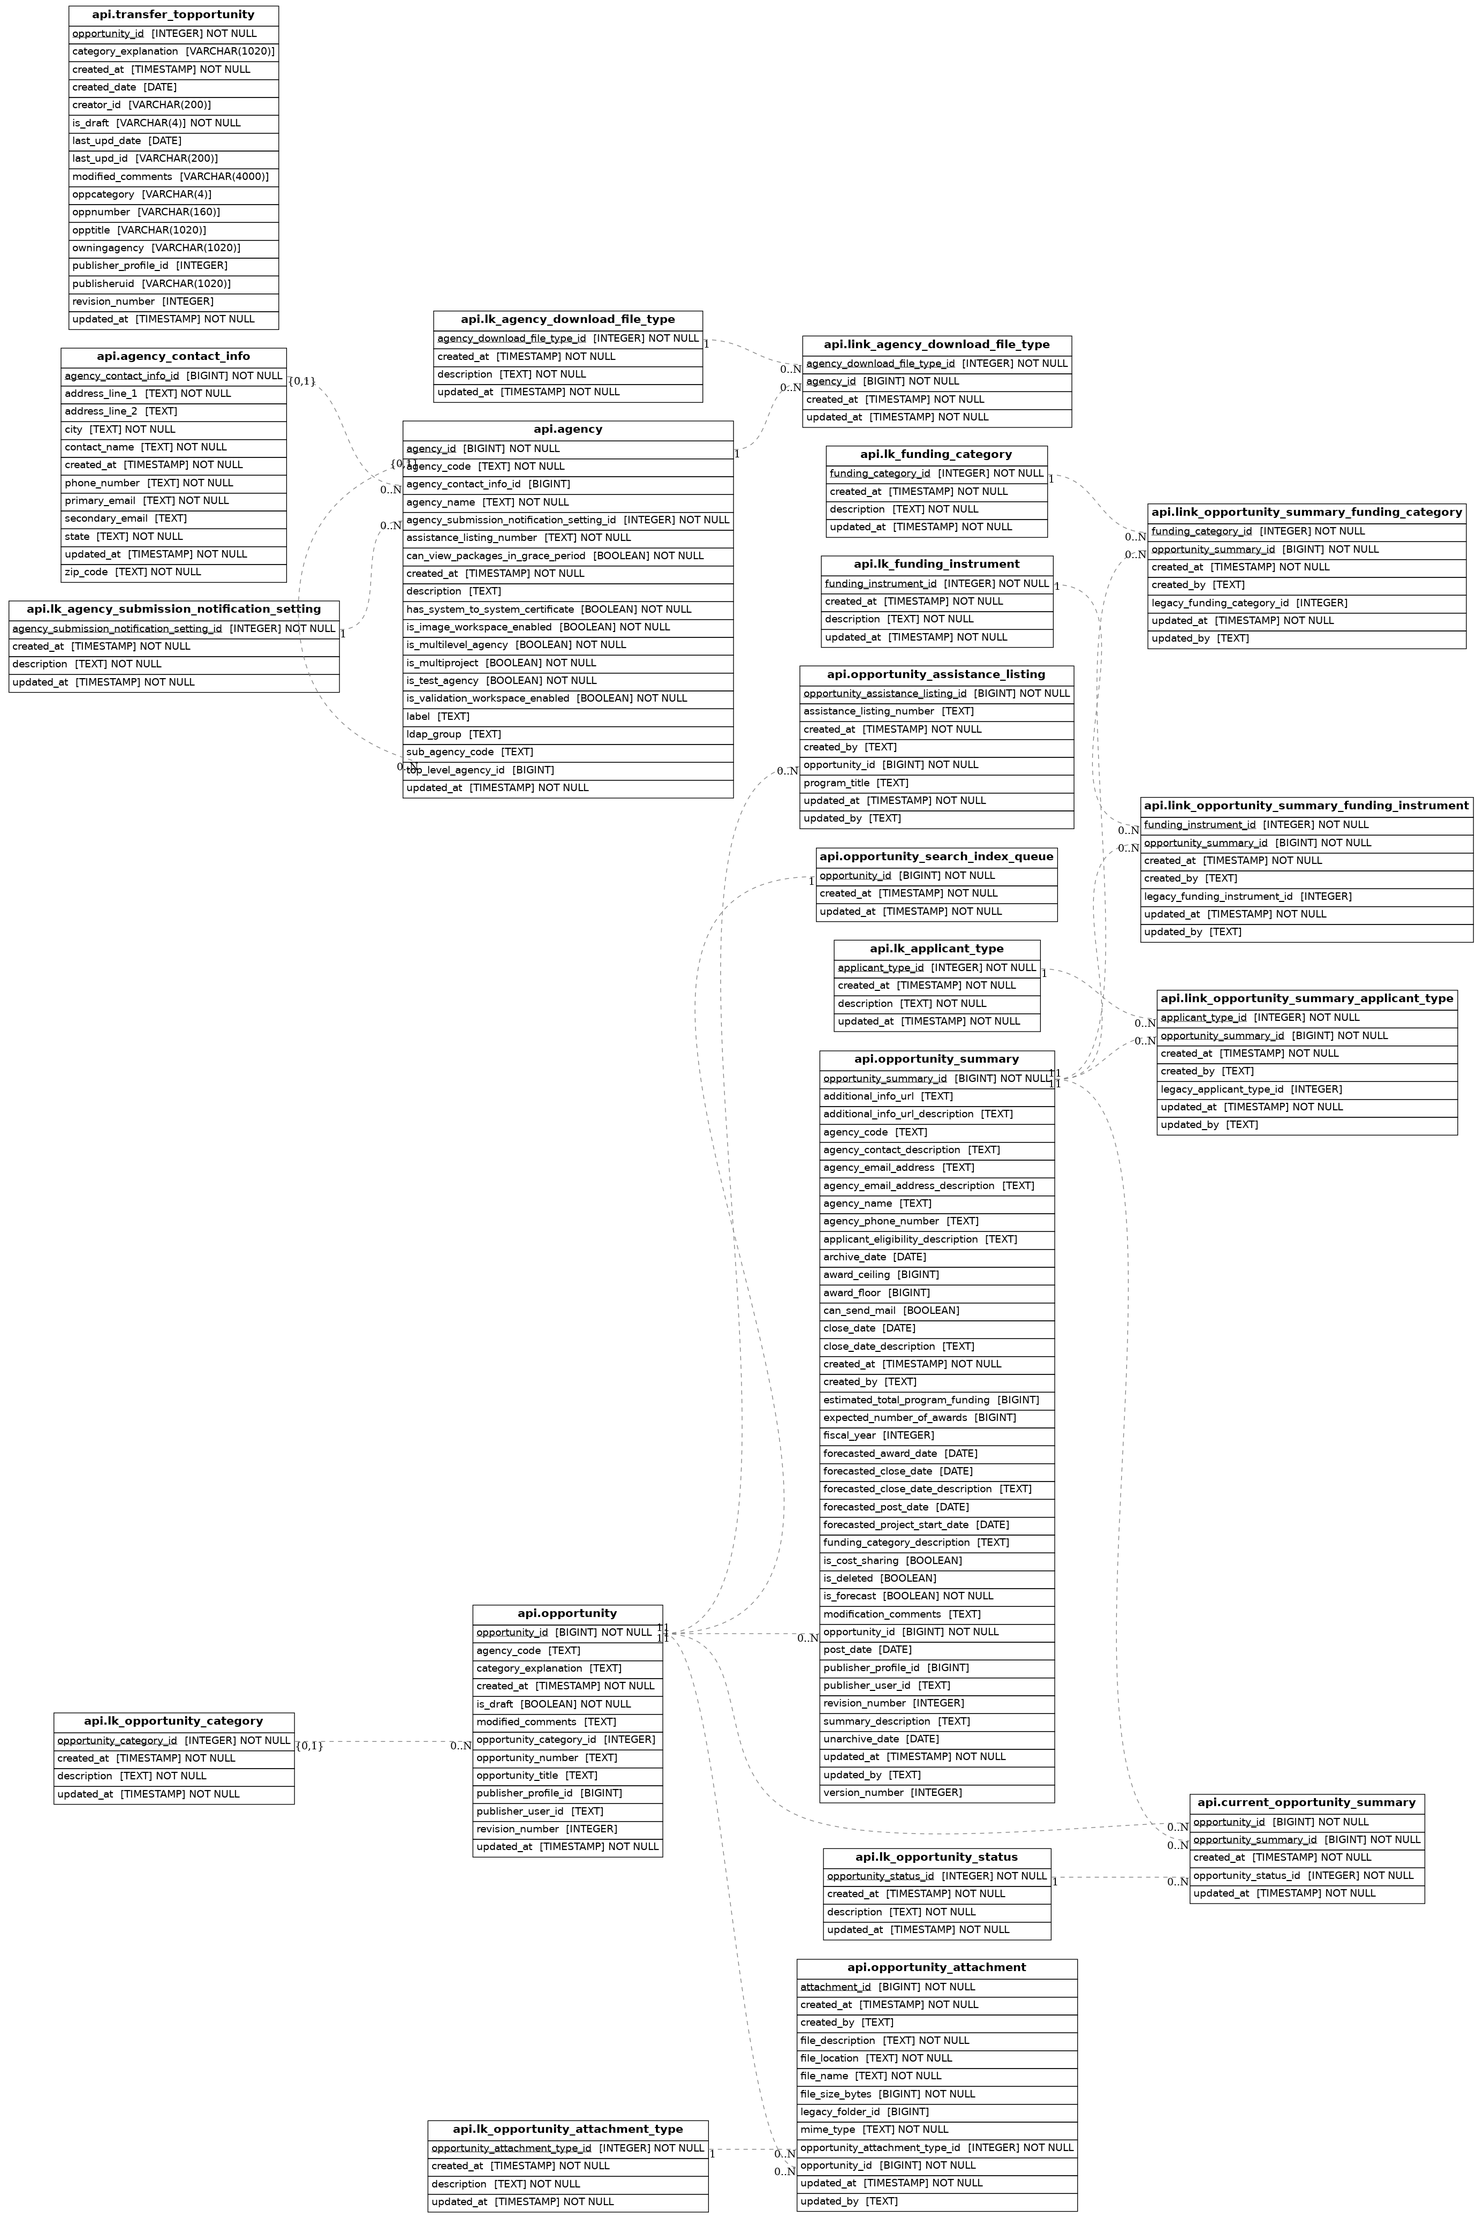
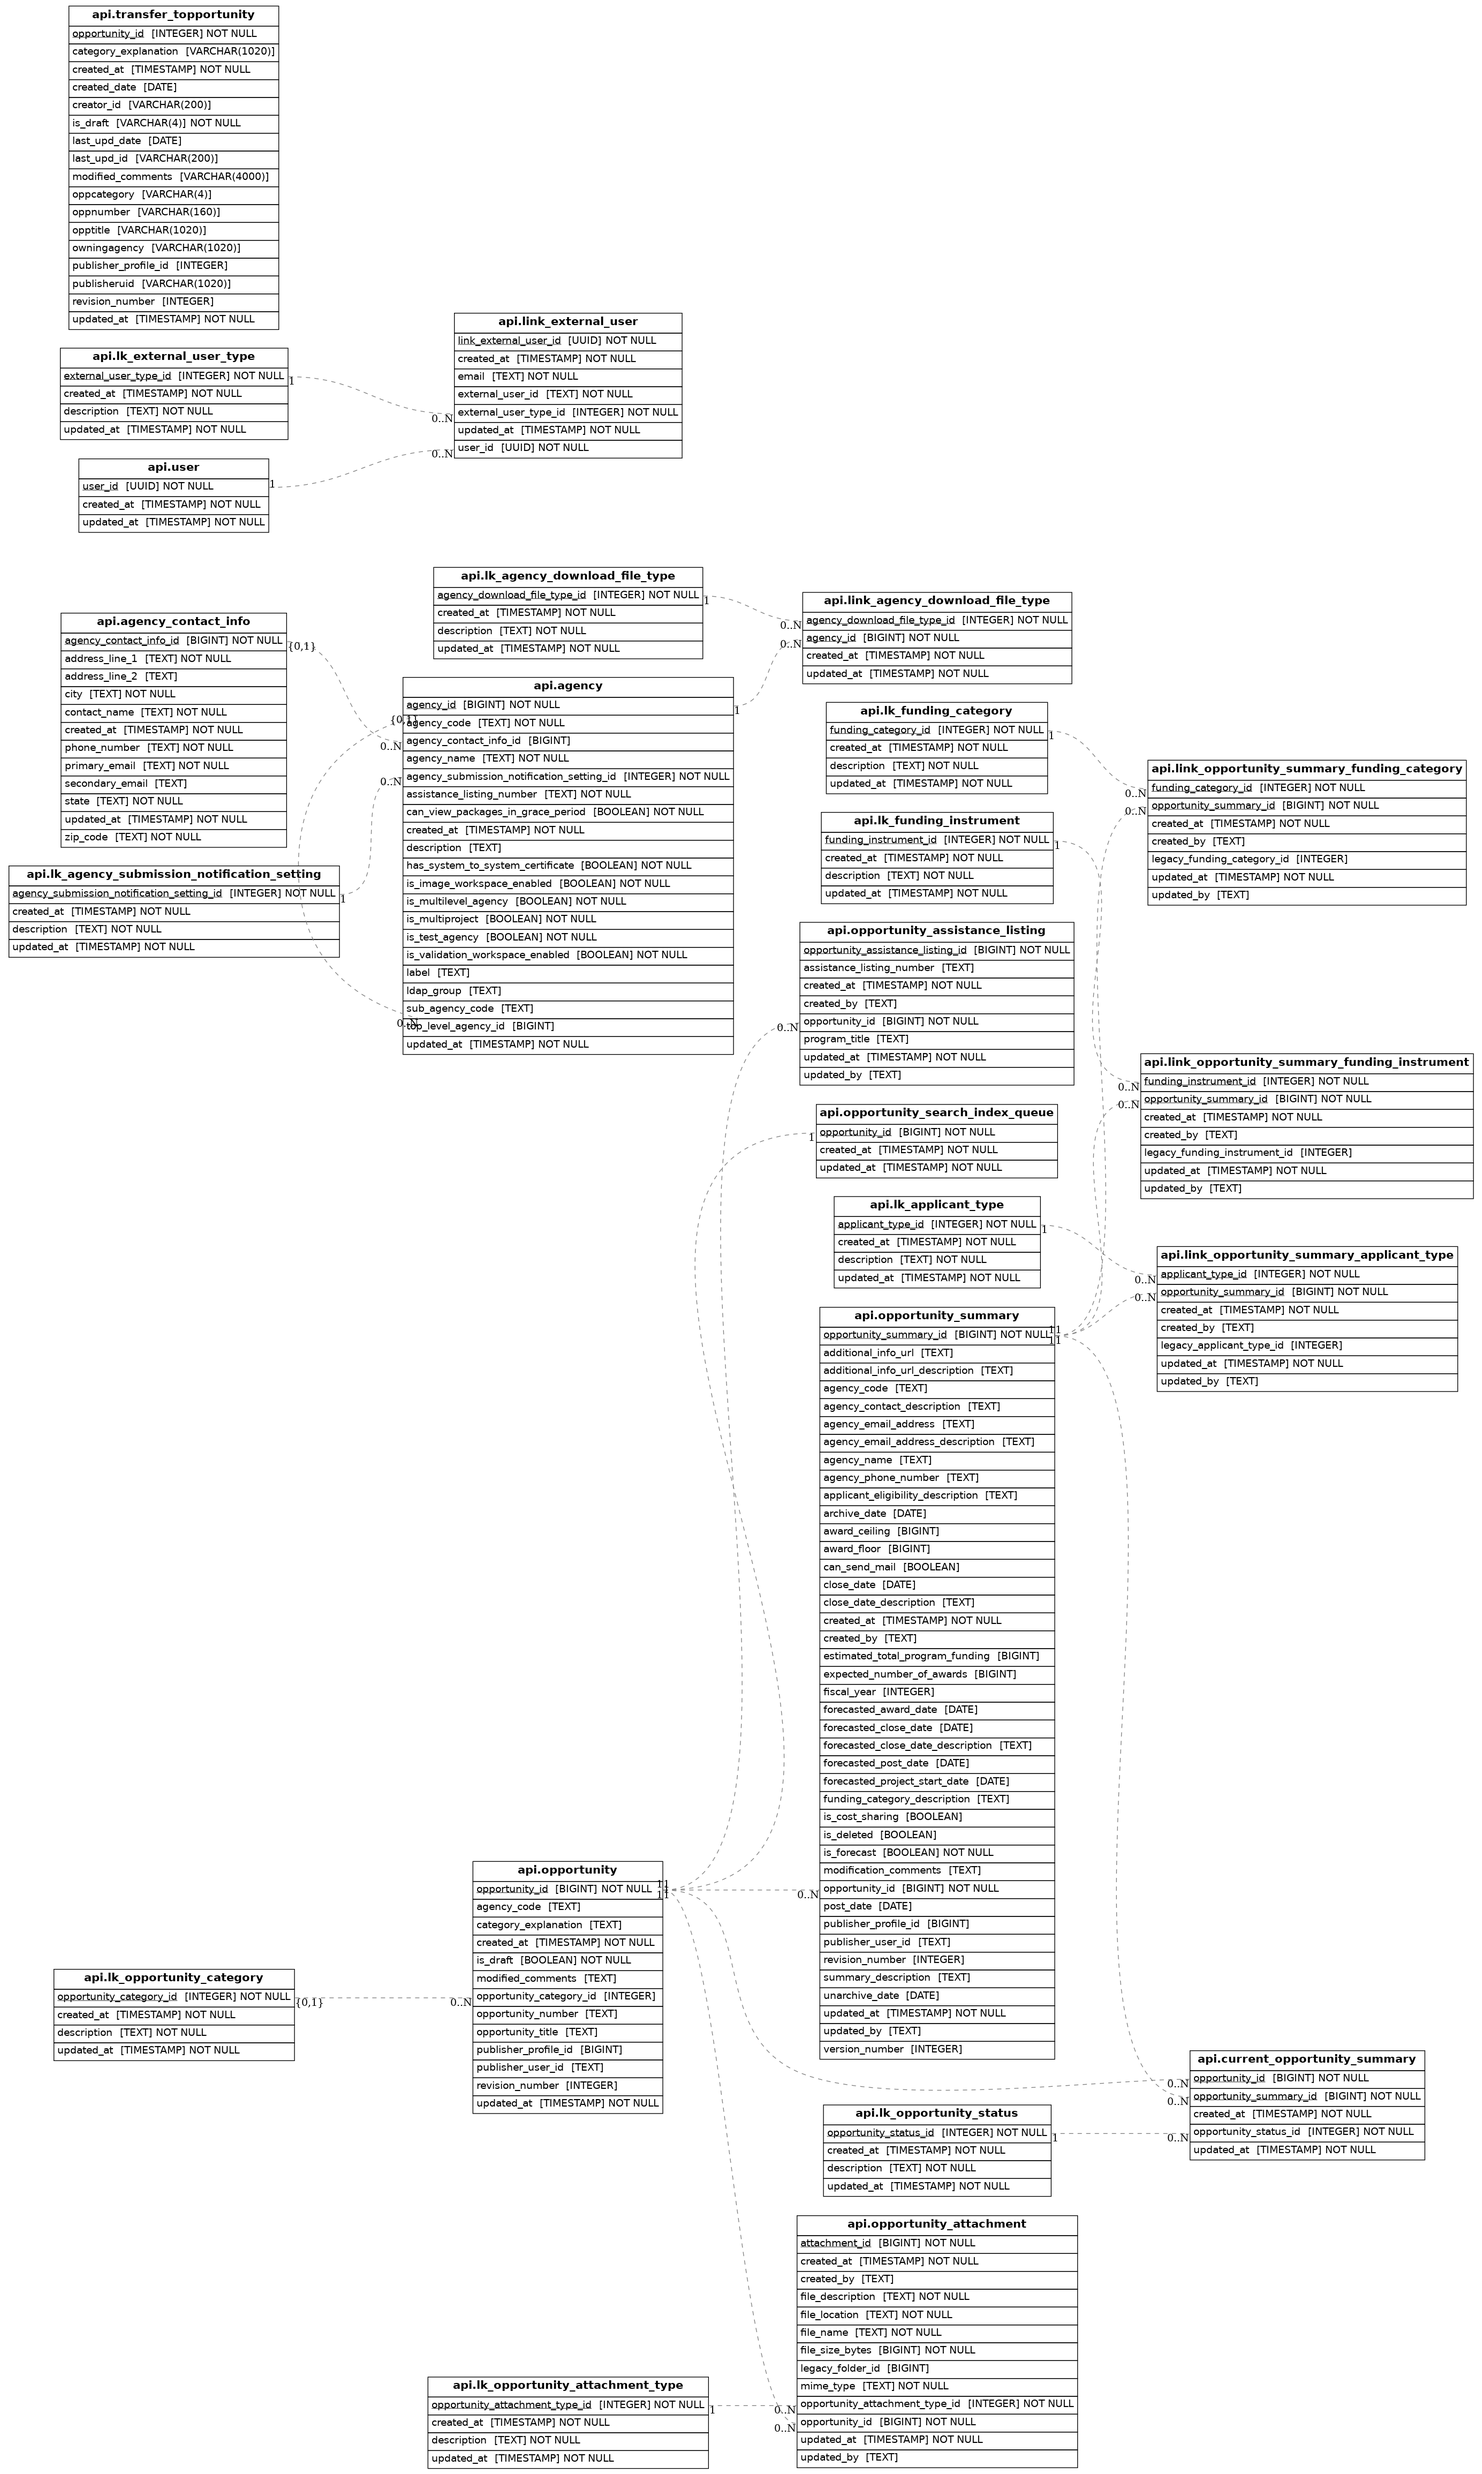
[ISSUE 2716] Create user tables for basic login.gov (#2760)
## Summary
Fixes #{[2716](https://github.com/HHS/simpler-grants-gov/issues/2716)}

### Time to review: __10 mins__

## Changes proposed
3 user tables
migration script
updated factories to create new users

## Context for reviewers
Users tables will be used for Oauth2 

## Additional information
> Screenshots, GIF demos, code examples or output to help show the
changes working as expected.

---------

diff --git a/api/src/db/migrations/versions/2024_11_12_add_basic_user_tables.py b/api/src/db/migrations/versions/2024_11_12_add_basic_user_tables.py
@@ -1,0 +1,130 @@
+"""add_basic_user_tables
+
+Revision ID: 65e962033cc6
+Revises: 3640e31e6a85
+Create Date: 2024-11-12 17:14:12.947794
+
+"""
+
+import sqlalchemy as sa
+from alembic import op
+
+# revision identifiers, used by Alembic.
+revision = "65e962033cc6"
+down_revision = "3640e31e6a85"
+branch_labels = None
+depends_on = None
+
+
+def upgrade():
+    # ### commands auto generated by Alembic - please adjust! ###
+    op.create_table(
+        "lk_external_user_type",
+        sa.Column("external_user_type_id", sa.Integer(), nullable=False),
+        sa.Column("description", sa.Text(), nullable=False),
+        sa.Column(
+            "created_at",
+            sa.TIMESTAMP(timezone=True),
+            server_default=sa.text("now()"),
+            nullable=False,
+        ),
+        sa.Column(
+            "updated_at",
+            sa.TIMESTAMP(timezone=True),
+            server_default=sa.text("now()"),
+            nullable=False,
+        ),
+        sa.PrimaryKeyConstraint("external_user_type_id", name=op.f("lk_external_user_type_pkey")),
+        schema="api",
+    )
+    op.create_table(
+        "user",
+        sa.Column("user_id", sa.UUID(), nullable=False),
+        sa.Column(
+            "created_at",
+            sa.TIMESTAMP(timezone=True),
+            server_default=sa.text("now()"),
+            nullable=False,
+        ),
+        sa.Column(
+            "updated_at",
+            sa.TIMESTAMP(timezone=True),
+            server_default=sa.text("now()"),
+            nullable=False,
+        ),
+        sa.PrimaryKeyConstraint("user_id", name=op.f("user_pkey")),
+        schema="api",
+    )
+    op.create_table(
+        "link_external_user",
+        sa.Column("link_external_user_id", sa.UUID(), nullable=False),
+        sa.Column("external_user_id", sa.Text(), nullable=False),
+        sa.Column("user_id", sa.UUID(), nullable=False),
+        sa.Column("external_user_type_id", sa.Integer(), nullable=False),
+        sa.Column("email", sa.Text(), nullable=False),
+        sa.Column(
+            "created_at",
+            sa.TIMESTAMP(timezone=True),
+            server_default=sa.text("now()"),
+            nullable=False,
+        ),
+        sa.Column(
+            "updated_at",
+            sa.TIMESTAMP(timezone=True),
+            server_default=sa.text("now()"),
+            nullable=False,
+        ),
+        sa.ForeignKeyConstraint(
+            ["external_user_type_id"],
+            ["api.lk_external_user_type.external_user_type_id"],
+            name=op.f("link_external_user_external_user_type_id_lk_external_user_type_fkey"),
+        ),
+        sa.ForeignKeyConstraint(
+            ["user_id"], ["api.user.user_id"], name=op.f("link_external_user_user_id_user_fkey")
+        ),
+        sa.PrimaryKeyConstraint("link_external_user_id", name=op.f("link_external_user_pkey")),
+        schema="api",
+    )
+    op.create_index(
+        op.f("link_external_user_external_user_id_idx"),
+        "link_external_user",
+        ["external_user_id"],
+        unique=True,
+        schema="api",
+    )
+    op.create_index(
+        op.f("link_external_user_external_user_type_id_idx"),
+        "link_external_user",
+        ["external_user_type_id"],
+        unique=False,
+        schema="api",
+    )
+    op.create_index(
+        op.f("link_external_user_user_id_idx"),
+        "link_external_user",
+        ["user_id"],
+        unique=False,
+        schema="api",
+    )
+    # ### end Alembic commands ###
+
+
+def downgrade():
+    # ### commands auto generated by Alembic - please adjust! ###
+    op.drop_index(
+        op.f("link_external_user_user_id_idx"), table_name="link_external_user", schema="api"
+    )
+    op.drop_index(
+        op.f("link_external_user_external_user_type_id_idx"),
+        table_name="link_external_user",
+        schema="api",
+    )
+    op.drop_index(
+        op.f("link_external_user_external_user_id_idx"),
+        table_name="link_external_user",
+        schema="api",
+    )
+    op.drop_table("link_external_user", schema="api")
+    op.drop_table("user", schema="api")
+    op.drop_table("lk_external_user_type", schema="api")
+    # ### end Alembic commands ###

diff --git a/api/tests/src/db/models/factories.py b/api/tests/src/db/models/factories.py
@@ -24,11 +24,13 @@ import src.db.models.foreign as foreign
 import src.db.models.opportunity_models as opportunity_models
 import src.db.models.staging as staging
 import src.db.models.transfer.topportunity_models as transfer_topportunity_models
+import src.db.models.user_models as user_models
 import src.util.datetime_util as datetime_util
 from src.constants.lookup_constants import (
     AgencyDownloadFileType,
     AgencySubmissionNotificationSetting,
     ApplicantType,
+    ExternalUserType,
     FundingCategory,
     FundingInstrument,
     OpportunityAttachmentType,
@@ -1833,3 +1835,25 @@ class OpportunitySearchIndexQueueFactory(BaseFactory):
 
     opportunity = factory.SubFactory(OpportunityFactory)
     opportunity_id = factory.LazyAttribute(lambda s: s.opportunity.opportunity_id)
+
+
+class UserFactory(BaseFactory):
+    class Meta:
+        model = user_models.User
+
+    user_id = Generators.UuidObj
+
+
+class LinkExternalUserFactory(BaseFactory):
+    class Meta:
+        model = user_models.LinkExternalUser
+
+    link_external_user_id = Generators.UuidObj
+    external_user_id = Generators.UuidObj
+
+    user = factory.SubFactory(UserFactory)
+    user_id = factory.LazyAttribute(lambda s: s.user.user_id)
+
+    external_user_type_id = factory.fuzzy.FuzzyChoice(ExternalUserType)
+
+    email = factory.Faker("email")

diff --git a/api/src/db/models/lookup_models.py b/api/src/db/models/lookup_models.py
@@ -4,6 +4,7 @@ from src.constants.lookup_constants import (
     AgencyDownloadFileType,
     AgencySubmissionNotificationSetting,
     ApplicantType,
+    ExternalUserType,
     FundingCategory,
     FundingInstrument,
     OpportunityAttachmentType,
@@ -113,6 +114,8 @@ AGENCY_SUBMISSION_NOTIFICATION_SETTING_CONFIG = LookupConfig(
         LookupStr(AgencySubmissionNotificationSetting.ALWAYS, 3),
     ]
 )
+
+EXTERNAL_USER_TYPE_CONFIG = LookupConfig([LookupStr(ExternalUserType.LOGIN_GOV, 1)])
 
 
 @LookupRegistry.register_lookup(OPPORTUNITY_CATEGORY_CONFIG)
@@ -226,4 +229,18 @@ class LkOpportunityAttachmentType(LookupTable, TimestampMixin):
         return LkOpportunityAttachmentType(
             opportunity_attachment_type_id=lookup.lookup_val,
             description=lookup.get_description(),
+        )
+
+
+@LookupRegistry.register_lookup(EXTERNAL_USER_TYPE_CONFIG)
+class LkExternalUserType(LookupTable, TimestampMixin):
+    __tablename__ = "lk_external_user_type"
+
+    external_user_type_id: Mapped[int] = mapped_column(primary_key=True)
+    description: Mapped[str]
+
+    @classmethod
+    def from_lookup(cls, lookup: Lookup) -> "LkExternalUserType":
+        return LkExternalUserType(
+            external_user_type_id=lookup.lookup_val, description=lookup.get_description()
         )

diff --git a/api/src/db/models/user_models.py b/api/src/db/models/user_models.py
@@ -1,0 +1,35 @@
+import uuid
+
+from sqlalchemy import ForeignKey
+from sqlalchemy.dialects.postgresql import UUID
+from sqlalchemy.orm import Mapped, mapped_column, relationship
+
+from src.adapters.db.type_decorators.postgres_type_decorators import LookupColumn
+from src.db.models.base import ApiSchemaTable, TimestampMixin
+from src.db.models.lookup_models import LkExternalUserType
+
+
+class User(ApiSchemaTable, TimestampMixin):
+    __tablename__ = "user"
+
+    user_id: Mapped[uuid.UUID] = mapped_column(UUID, primary_key=True)
+
+
+class LinkExternalUser(ApiSchemaTable, TimestampMixin):
+    __tablename__ = "link_external_user"
+
+    link_external_user_id: Mapped[uuid.UUID] = mapped_column(UUID, primary_key=True)
+
+    external_user_id: Mapped[str] = mapped_column(index=True, unique=True)
+
+    user_id: Mapped[uuid.UUID] = mapped_column(UUID, ForeignKey(User.user_id), index=True)
+    user: Mapped[User] = relationship(User)
+
+    external_user_type: Mapped[int] = mapped_column(
+        "external_user_type_id",
+        LookupColumn(LkExternalUserType),
+        ForeignKey(LkExternalUserType.external_user_type_id),
+        index=True,
+    )
+
+    email: Mapped[str]

diff --git a/api/src/db/models/__init__.py b/api/src/db/models/__init__.py
@@ -1,6 +1,6 @@
 import logging
 
-from . import agency_models, base, lookup_models, opportunity_models
+from . import agency_models, base, lookup_models, opportunity_models, user_models
 from .transfer import topportunity_models
 
 logger = logging.getLogger(__name__)
@@ -15,4 +15,5 @@ __all__ = [
     "lookup_models",
     "topportunity_models",
     "agency_models",
+    "user_models",
 ]

diff --git a/api/src/constants/lookup_constants.py b/api/src/constants/lookup_constants.py
@@ -121,3 +121,7 @@ class AgencySubmissionNotificationSetting(StrEnum):
 class OpportunityAttachmentType(StrEnum):
     NOTICE_OF_FUNDING_OPPORTUNITY = "notice_of_funding_opportunity"
     OTHER = "other"
+
+
+class ExternalUserType(StrEnum):
+    LOGIN_GOV = "login_gov"
